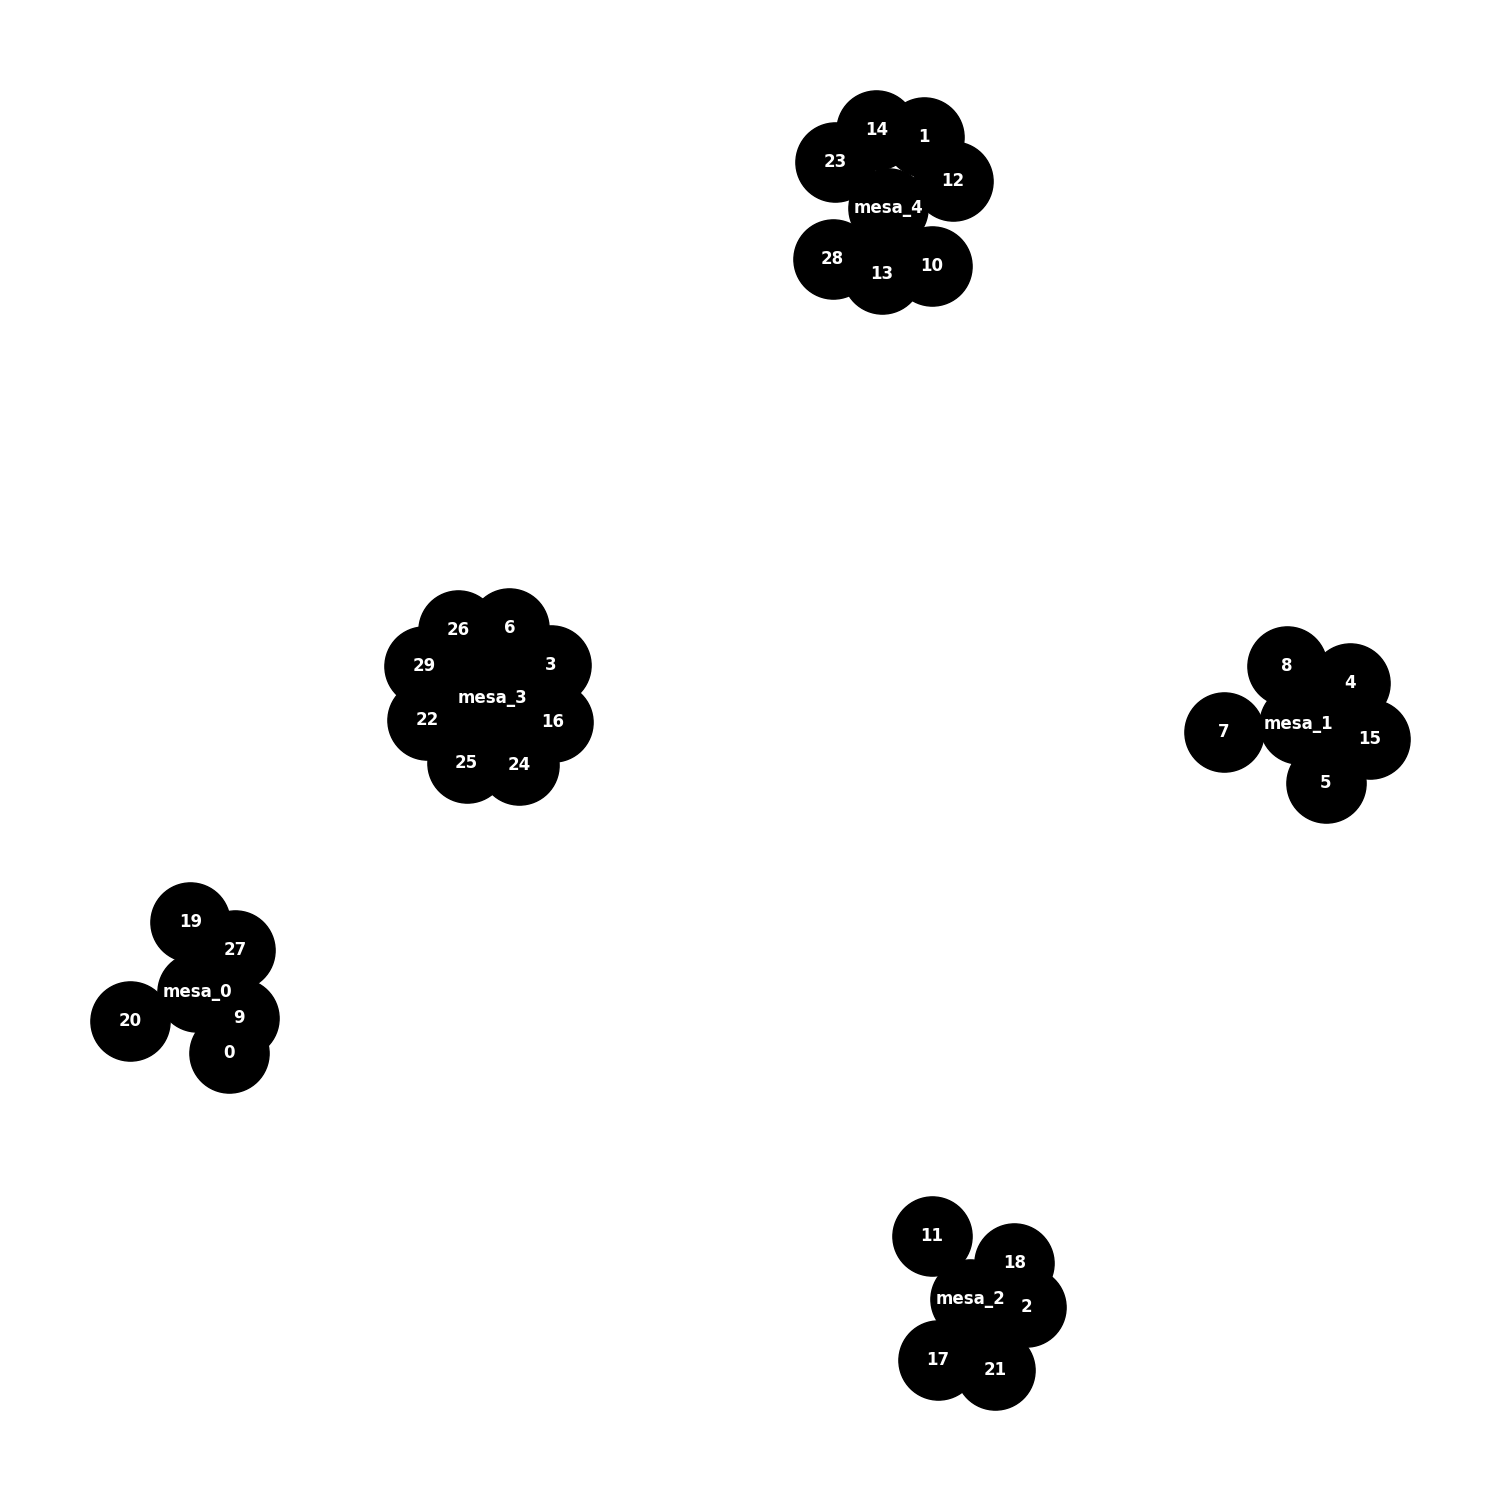
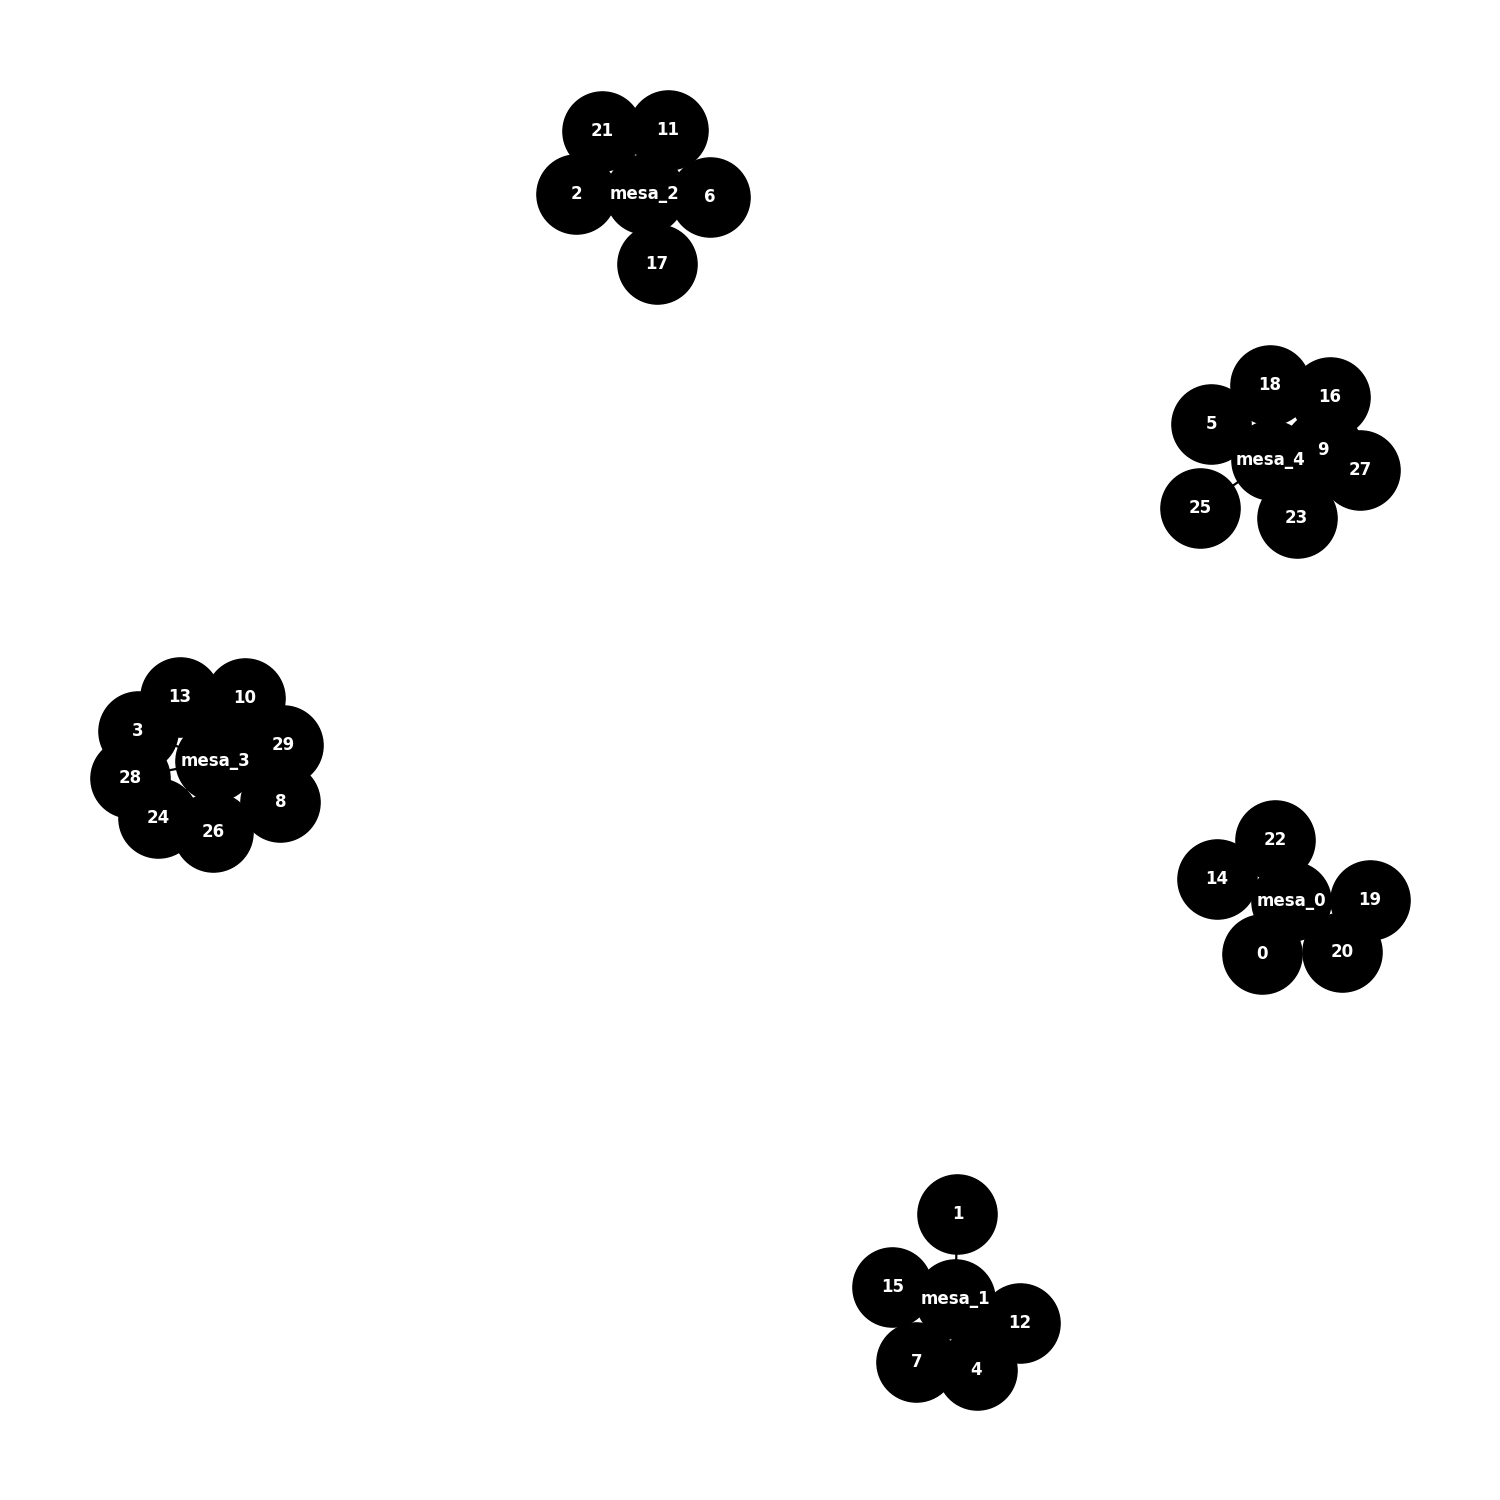
adicionando meta heuristica e otimizando codigo

diff --git a/src/main.py b/src/main.py
@@ -1,7 +1,8 @@
-from funtion_problem import *
+from function_problem import *
 from read_problem import *
-from funtion_movimento_vizinhanca import *
+from function_movimento_vizinhanca import *
 from function_tratamentos import *
+from meta_heuristica import *
 from vnd import *
 import time
 
@@ -22,6 +23,13 @@ otimo_list_vnd = []
 tempo_list_vnd = []
 gap_list_vnd = []
 linha_vnd = []
+
+ils_List = []
+otimo_list_ils = []
+tempo_list_ils = []
+gap_list_ils = []
+linha_ils = []
+
 
 index = []
 interacao = 0
@@ -50,7 +58,8 @@ for i in instancias:
   grafo_afinidades(quant_convidados,festinhaFelas,afinidade,pessoas,passei)
 
   matrix_afinidade = Matriz_afinidade(festinhaFelas,quant_convidados)
-
+  print("~~"*32)
+  print(f"Iniciando Instancia {interacao}")
   start_time_heuristic = time.time()
   #INICIO DA HEURISTICA CONSTRUTIVA
   # Preenchendo valor minimo das mesas com as duplas de maiores afinidades da lista de afinidades
@@ -72,6 +81,7 @@ for i in instancias:
   otimo_list_heuristic.append(0)
   gap_list_heuristic.append(0)
 
+  print(f"Heuristica Concluida, iniciando vnd")
 
 
   #INICIO DO VND
@@ -84,11 +94,25 @@ for i in instancias:
   otimo_list_vnd.append(0)
   gap_list_vnd.append(0)
 
+  print(f"VND concluido, iniciando ILS (Meta Heuristica)")
+
+  #INICIO META_HEURISTICA
+  start_time_ils = time.time()
+  result_ils = ILS(3,solucao_final_VND,matrix_afinidade)
+  end_time_ils = time.time()
+
+  ils_List.append(solution(result_ils,matrix_afinidade))
+  tempo_list_ils.append(round(end_time_ils-start_time_ils))
+  otimo_list_ils.append(0)
+  gap_list_ils.append(0)
+  print(f"ILS concluido")
 
 
   linha_heuristic.append([otimo_list_heuristic[interacao],heuristica_List[interacao],tempo_list_heuristic[interacao],gap_list_heuristic[interacao]])
 
   linha_vnd.append([otimo_list_vnd[interacao],vnd_List[interacao],tempo_list_vnd[interacao],gap_list_vnd[interacao]])
+  
+  linha_ils.append([otimo_list_ils[interacao],ils_List[interacao],tempo_list_ils[interacao],gap_list_ils[interacao]])
 
   plt.figure(figsize=(15, 15))
   nx.draw(solucao_final_VND ,with_labels=True,node_color="black",node_size=3250,width=1.6, font_color="white",font_weight='bold' )
@@ -105,6 +129,7 @@ for i in instancias:
 
 df_heuristica = pd.DataFrame(linha_heuristic, columns = ['Otimo','Valor_Solução', "Tempo", "gap"], index=[index])
 df_vnd = pd.DataFrame(linha_vnd, columns = ['Otimo','Valor_Solução', "Tempo", "gap"], index=[index])
+df_ils = pd.DataFrame(linha_ils, columns = ['Otimo','Valor_Solução', "Tempo", "gap"], index=[index])
 
 print("~~"*32)
 print("Heuristica Construtiva")
@@ -112,4 +137,7 @@ print(df_heuristica)
 print("~~"*32)
 print("VND")
 print(df_vnd)
+print("~~"*32)
+print("ILS")
+print(df_ils)
 print("~~"*32)

diff --git a/src/meta_heuristica.py b/src/meta_heuristica.py
@@ -1,0 +1,58 @@
+from function_tratamentos import *
+import random
+from vnd import *
+
+def Perturbacao(grafo,nivel = 1):
+  copia = grafo.copy()
+  for i in range (nivel):
+    lista_mesas = []
+    for i in list(copia.nodes()):
+      if (not isinstance(i, str)):
+        break
+      elif (get_quantidade_alocada(i,copia)-1<int(copia.nodes[i]["menorCadeira"])):
+        continue
+      else:
+        lista_mesas.append(i)
+    
+    mesa_inicial = random.choice(lista_mesas)
+    lista_mesas.pop(lista_mesas.index(mesa_inicial))
+    mesa_final = random.choice(lista_mesas)
+
+    valorTroca_1 = random.choice(nodes_edg(mesa_inicial,copia))
+    valorTroca_2 = random.choice(nodes_edg(mesa_final,copia))
+
+    copia.remove_edge(mesa_inicial,valorTroca_1)
+    copia.remove_edge(mesa_final,valorTroca_2)
+    
+    copia.add_edge(mesa_inicial,valorTroca_2)
+    copia.add_edge(mesa_final,valorTroca_1)
+  
+  return copia.copy()
+
+
+
+def ILS (execucoes,vnd_teste,matrix_afinidade):
+  copia_vnd_teste = vnd_teste.copy()
+  numero_melhoras = 100
+
+  execucoes = 3
+  melhor_dos_melhores = 0
+
+  while(execucoes > 0):
+    copia_vnd_teste = vnd_teste.copy()
+    beneficio = solution(copia_vnd_teste,matrix_afinidade)
+    while(numero_melhoras > 0):
+      teste = Perturbacao(copia_vnd_teste,5)
+      teste2 = VND (teste,matrix_afinidade)
+      if(solution(teste2,matrix_afinidade)>beneficio):
+        beneficio = solution(teste2,matrix_afinidade)
+        copia_vnd_teste = teste2.copy()
+        # print(beneficio)
+        numero_melhoras = 100
+      else:
+        numero_melhoras-=1
+    if (beneficio > melhor_dos_melhores):
+      melhor_dos_melhores = beneficio
+      melhor_no = copia_vnd_teste.copy()
+    execucoes -=1
+  return melhor_no.copy()

diff --git a/src/function_problem.py b/src/function_problem.py
@@ -33,21 +33,20 @@ def grafo_afinidades(quant_convidados,festinhaFelas,afinidade,pessoas,passei):
 def senta_Dupla (mesa,afin_max,pessoas,afinidade,ja_sentou):
     for i in list(mesa):
         if (int(mesa.nodes[i]["menorCadeira"]/2)):
-            for j in range(int(mesa.nodes[i]["menorCadeira"]/2)):
-                while(1):
-                    maior = afin_max.pop(0)
-                    ovo_sentar = pessoas[afinidade.index(maior)]
-                    pessoas.pop(afinidade.index(maior))
-                    afinidade.pop(afinidade.index(maior))
-                    if (ovo_sentar[0] not in ja_sentou and ovo_sentar[1] not in ja_sentou):
-                        mesa.add_edge(i,ovo_sentar[0])
-                        mesa.add_edge(i,ovo_sentar[1])
-                        ja_sentou.append(ovo_sentar[0])
-                        ja_sentou.append(ovo_sentar[1])
-                        break
-                
-                    else:
-                        continue
+          while(1):
+              maior = afin_max.pop(0)
+              ovo_sentar = pessoas[afinidade.index(maior)]
+              pessoas.pop(afinidade.index(maior))
+              afinidade.pop(afinidade.index(maior))
+              if (ovo_sentar[0] not in ja_sentou and ovo_sentar[1] not in ja_sentou):
+                  mesa.add_edge(i,ovo_sentar[0])
+                  mesa.add_edge(i,ovo_sentar[1])
+                  ja_sentou.append(ovo_sentar[0])
+                  ja_sentou.append(ovo_sentar[1])
+                  break
+          
+              else:
+                  continue
         else:
             if (int(mesa.nodes[i]["maiorCadeira"]/2)):
                 for j in range(int(mesa.nodes[i]["maiorCadeira"]/2)):

diff --git a/src/vnd.py b/src/vnd.py
@@ -1,4 +1,4 @@
-from funtion_movimento_vizinhanca import *
+from function_movimento_vizinhanca import *
 from function_tratamentos import *
 
 def VND (mesa,matrix_afinidade):

diff --git a/src/function_movimento_vizinhanca.py b/src/function_movimento_vizinhanca.py
@@ -1,4 +1,4 @@
-from funtion_problem import *
+from function_problem import *
 
 def swap_solution(main, matrix_afinidade):
   pares = []
